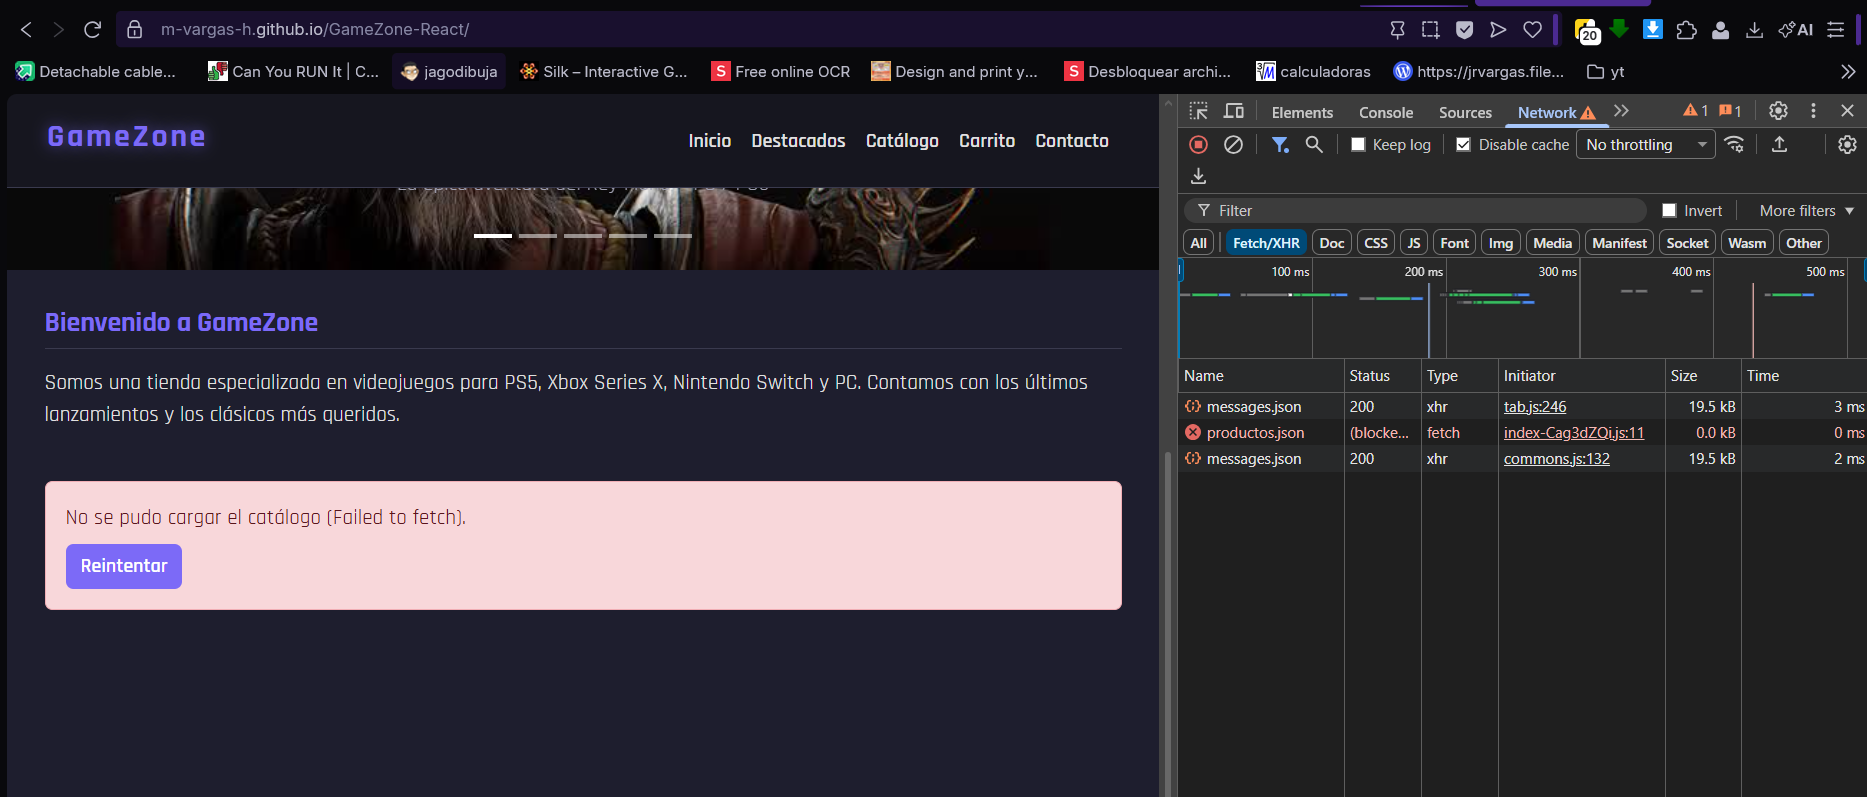
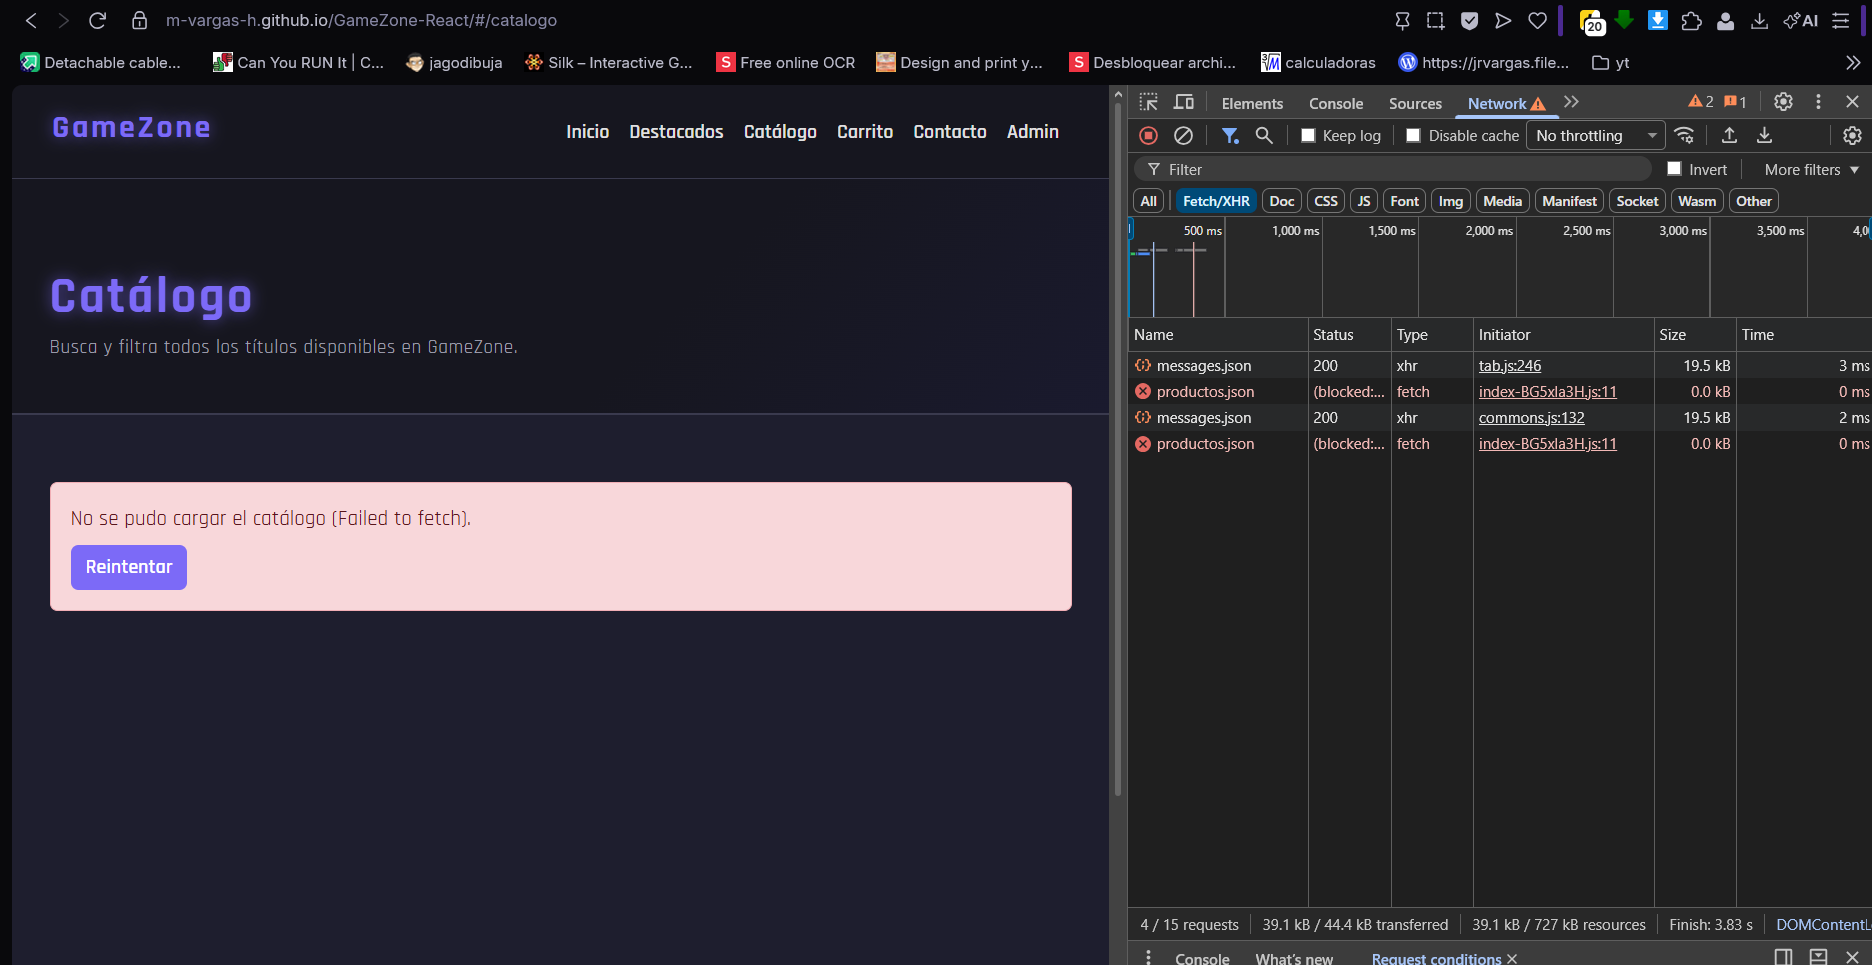
docs: actualizacion readme y evidencias

diff --git a/README.md b/README.md
@@ -1,6 +1,6 @@
 # GameZone — React
 
-Tienda de videojuegos online desarrollada con React y Vite, como migración y mejora del proyecto anterior construido en HTML/CSS/JS. Permite explorar un catálogo de juegos cargado dinámicamente, filtrarlos, buscarlos y agregarlos a un carrito de compras interactivo que se conserva al recargar la página.
+Tienda de videojuegos online desarrollada con React y Vite, como migración y mejora del proyecto anterior construido en HTML/CSS/JS. Permite explorar un catálogo de juegos cargado dinámicamente, filtrarlos, buscarlos, descubrir más títulos desde una API externa y agregarlos a un carrito de compras interactivo que se conserva al recargar la página. Incluye un formulario de contacto con validación y un modo administrador (simulado) para agregar y eliminar juegos del catálogo.
 
 ---
 
@@ -15,9 +15,77 @@ Tienda de videojuegos online desarrollada con React y Vite, como migración y me
 - **React 19** — librería principal para construcción de la UI
 - **Vite** — entorno de desarrollo y bundler
 - **Bootstrap 5** — estilos y componentes de interfaz
-- **React Router DOM** — navegación entre páginas (Home, Carrito y Contacto)
+- **React Router DOM** — navegación entre páginas (Inicio, Catálogo, Carrito, Contacto y Admin)
 - **JavaScript ES6+** — lógica de componentes y estado
+- **API GameBrain** — juegos adicionales en la sección "Descubre más juegos"
 - **gh-pages** — publicación en GitHub Pages
+
+---
+
+## Instalación local
+
+```bash
+git clone https://github.com/m-vargas-h/GameZone-React
+cd GameZone-React
+npm install
+npm run dev
+```
+
+Abre [http://localhost:5173/GameZone-React/](http://localhost:5173/GameZone-React/) en el navegador.
+
+### Configuración de la API (GameBrain)
+
+La sección "Descubre más juegos" consume la API de [GameBrain](https://gamebrain.co). La clave no se sube al repositorio.
+La Key correspondiente estara disponible en la entrega a traves de AVA para poder correr las pruebas en local de ser necesario
+
+Sin clave, la sección muestra un mensaje de error con el botón "Reintentar" y el resto del sitio funciona con normalidad.
+
+---
+
+## Uso
+
+### Páginas
+
+| Ruta | Contenido |
+|---|---|
+| `/` | Inicio: carrusel, productos destacados, botón "Ver catálogo completo" y "Descubre más juegos" (API) |
+| `/catalogo` | Búsqueda y catálogo completo con filtros por plataforma y género |
+| `/carrito` | Detalle completo del carrito |
+| `/contacto` | Formulario de contacto con validación |
+| `/admin` | Login simulado y gestión del catálogo (agregar juegos) |
+
+### Acciones
+
+| Acción | Cómo hacerlo |
+|---|---|
+| Ver el catálogo completo | Botón "Ver catálogo completo" del inicio o enlace "Catálogo" del navbar |
+| Filtrar | Botones de plataforma y género en `/catalogo` (se combinan) |
+| Buscar | Escribe en "Buscar juego" y presiona Enter o el botón Buscar |
+| Agregar al carrito | Botón "+ Carrito" en cada card; el botón muestra la cantidad (`✓ En el carrito (2)`) |
+| Ver y editar el carrito | Botón "Carrito" del navbar (panel lateral) o "Ver carrito" para la página `/carrito` |
+| Vaciar el carrito | Botón "Vaciar carrito" en el panel lateral o en la página `/carrito` |
+| Contacto | Enlace "Contacto" del navbar; el formulario valida cada campo antes de enviar |
+| Administrar el catálogo | Enlace "Admin" del navbar, con las credenciales de prueba (ver más abajo) |
+
+### Credenciales de prueba (administrador)
+
+Las credenciales se leen desde variables de entorno (`VITE_ADMIN_USER` y `VITE_ADMIN_PASS`). Los valores de demostración vienen en `.env.example`:
+
+| Usuario | Clave |
+|---|---|
+| `admin` | `gamezone123` |
+
+> El inicio de sesión es **simulado**: aunque las credenciales están en el `.env`, Vite las incluye en el build del frontend, por lo que no ofrece seguridad real. Su objetivo es mostrar renderizado condicional según el estado de sesión.
+
+### Cómo comprobar la persistencia del carrito
+
+1. Agrega uno o más juegos al carrito.
+2. Recarga la página (F5) o cierra y vuelve a abrir la pestaña.
+3. El carrito conserva los juegos y cantidades, y el badge del navbar mantiene el total.
+4. Para verificarlo en el navegador: DevTools → Application → Local Storage → clave `gamezone-carrito`.
+5. Al usar "Vaciar carrito", la clave queda con una lista vacía (`[]`).
+
+![Persistencia del carrito](public/evidencias/persistencia-carrito.gif)
 
 ---
 
@@ -36,25 +104,34 @@ Tienda de videojuegos online desarrollada con React y Vite, como migración y me
 │   │   ├── hero.png
 │   │   └── vite.svg
 │   ├── components
+│   │   ├── AdminJuegos.jsx             -> Formulario con validación para agregar juegos al catálogo
 │   │   ├── Carousel.jsx                -> Carrusel de banners con Bootstrap
 │   │   ├── CarritoPanel.jsx            -> Panel lateral del carrito
+│   │   ├── DescubreJuegos.jsx          -> Sección "Descubre más juegos" con datos de la API GameBrain
+│   │   ├── EstadoCarga.jsx             -> Spinner y alerta de error con reintento del catálogo
 │   │   ├── FeaturedProducts.jsx        -> Sección de productos destacados (destacado: true)
 │   │   ├── Footer.jsx                  -> Pie de página con datos de contacto
 │   │   ├── Navbar.jsx                  -> Navegación, acceso al carrito con badge de cantidad
-│   │   ├── ProductCard.jsx             -> Card reutilizable con botón de carrito condicional
+│   │   ├── ProductCard.jsx             -> Card reutilizable con botón de carrito condicional y botón eliminar (admin)
 │   │   ├── ProductList.jsx             -> Catálogo completo con filtros por plataforma y género
 │   │   ├── SearchBar.jsx               -> Búsqueda por nombre o categoría con renderizado condicional
-│   │   └── ShoppingCart.jsx            -> Contenido del carrito (ítems, cantidades y total)
+│   │   └── ShoppingCart.jsx            -> Contenido del carrito (ítems, cantidades, total y vaciar)
 │   ├── hooks
-│   │   └── useCarrito.js               -> Custom Hook: estado del carrito y persistencia en localStorage
+│   │   ├── useAdmin.js                 -> Custom Hook: sesión de administrador simulada (sessionStorage)
+│   │   ├── useCarrito.js               -> Custom Hook: estado del carrito y persistencia en localStorage
+│   │   ├── useJuegosExternos.js        -> Custom Hook: carga de juegos desde la API GameBrain
+│   │   └── useProductos.js             -> Custom Hook: carga del catálogo, agregar y eliminar juegos
 │   ├── pages
+│   │   ├── Admin.jsx                   -> Página /admin: login simulado y gestión del catálogo
 │   │   ├── CarritoPagina.jsx           -> Página /carrito con el detalle completo
+│   │   ├── Catalogo.jsx                -> Página /catalogo: búsqueda y catálogo completo con filtros
 │   │   └── Contacto.jsx                -> Página de contacto con validación de formulario
 │   ├── utils
 │   │   └── formato.js                  -> Formateo de precios
-│   ├── App.jsx                         -> Componente raíz: carga del catálogo, rutas y panel del carrito
+│   ├── App.jsx                         -> Componente raíz: conecta los hooks, define las rutas y monta el panel del carrito
 │   ├── main.jsx                        -> Punto de entrada, configuración de Bootstrap y Router
 │   └── styles.css                      -> Estilos personalizados con variables CSS
+├── .env.example                        -> Plantilla de variables de entorno (clave de la API)
 ├── .gitattributes
 ├── .gitignore
 ├── README.md
@@ -69,39 +146,47 @@ Tienda de videojuegos online desarrollada con React y Vite, como migración y me
 
 ## Funcionalidades implementadas
 
-### 1. Catálogo de productos
+### 1. Inicio y productos destacados
 
-Listado de 15 juegos cargado dinámicamente con `fetch` dentro de un `useEffect` en `App`, desde `public/data/productos.json`, y renderizado con `.map()`. Cada card muestra nombre, descripción, imagen, precio normal tachado y precio oferta destacado. El componente `ProductCard` se reutiliza en el catálogo, destacados y resultados de búsqueda.
+La página principal muestra el carrusel y los 5 juegos marcados como `destacado: true` en el catálogo, con un botón **Ver catálogo completo** que lleva a `/catalogo`. Debajo se ubica la sección "Descubre más juegos", alimentada por la API externa.
+
+![Inicio y destacados](public/evidencias/inicio-destacados.gif)
+
+---
+
+### 2. Catálogo completo, filtros y búsqueda
+
+La página `/catalogo` lista los 15 juegos cargados dinámicamente con `fetch` dentro de un `useEffect` en el custom Hook `useProductos`, desde `public/data/productos.json`, y renderizados con `.map()`. Cada card muestra nombre, descripción, imagen, precio normal tachado y precio oferta destacado. El componente `ProductCard` se reutiliza en destacados, catálogo y resultados de búsqueda.
 
 ![Catálogo de productos](public/evidencias/catalogo.gif)
 
----
-
-### 2. Carrito de compras
-
-El carrito se abre como un **panel lateral** desde el botón "Carrito" del navbar, disponible en todas las páginas. Permite modificar la cantidad con `+` y `−`, eliminar ítems y ver el total, calculado con `.reduce()` sobre el precio oferta por cantidad. El navbar muestra un badge con el total de unidades.
-
-Desde el panel, el botón **Ver carrito** lleva a la página `/carrito`, con el mismo contenido en formato de página completa.
-
-El estado y las operaciones del carrito viven en el custom Hook `useCarrito`, que además guarda el contenido en `localStorage` con un `useEffect`, por lo que el carrito se conserva al recargar la página.
-
-![Carrito de compras](public/evidencias/carrito.gif)
-
----
-
-### 3. Filtros por plataforma y género
-
-El catálogo se filtra en tiempo real usando `useState`. Los botones pill muestran el filtro activo con la clase `active`. Si ningún juego coincide con el filtro seleccionado, se muestra un mensaje informativo (renderizado condicional).
+**Filtros.** El catálogo se filtra en tiempo real por plataforma y género (combinables) usando `useState`. Los botones pill muestran el filtro activo con la clase `active`. Si ningún juego coincide, se muestra un mensaje informativo (renderizado condicional).
 
 ![Filtros](public/evidencias/filtros.gif)
 
----
-
-### 4. Búsqueda de juegos
-
-Busca por nombre o categoría sobre el catálogo cargado. Muestra resultados dinámicamente y mensajes de estado cuando no hay coincidencias o el campo está vacío (renderizado condicional con `useState`).
+**Búsqueda.** Busca por nombre o categoría sobre el catálogo cargado. Muestra resultados dinámicamente y mensajes de estado cuando no hay coincidencias o el campo está vacío.
 
 ![Búsqueda](public/evidencias/busqueda.gif)
+
+---
+
+### 3. Descubre más juegos (API externa)
+
+La sección consume la API de GameBrain mediante el custom Hook `useJuegosExternos`: `fetch` dentro de un `useEffect`, con `AbortController`, estados de carga y error, y botón **Reintentar**. Como los campos de la API pueden variar, el hook los normaliza (nombre, imagen, género, plataforma, rating y enlace) antes de entregarlos al componente `DescubreJuegos`, que renderiza una card por juego. La clave de la API se lee desde `import.meta.env.VITE_GAMEBRAIN_KEY` (ver [Configuración de la API](#configuración-de-la-api-gamebrain)).
+
+![Descubre más juegos](public/evidencias/descubre-api.gif)
+
+---
+
+### 4. Carrito de compras
+
+El carrito se abre como un **panel lateral** desde el botón "Carrito" del navbar, disponible en todas las páginas. Permite modificar la cantidad con `+` y `−`, eliminar ítems, **vaciar el carrito completo** y ver el total, calculado con `.reduce()` sobre el precio oferta por cantidad. El navbar muestra un badge con el total de unidades.
+
+Desde el panel, el botón **Ver carrito** lleva a la página `/carrito`, con el mismo contenido en formato de página completa (incluido el botón "Vaciar carrito").
+
+El estado y las operaciones del carrito (`agregarAlCarrito`, `modificarCantidad`, `eliminarDelCarrito`, `vaciarCarrito`) viven en el custom Hook `useCarrito`, que además guarda el contenido en `localStorage` con un `useEffect`, por lo que el carrito se conserva al recargar la página.
+
+![Carrito de compras](public/evidencias/carrito.gif)
 
 ---
 
@@ -113,18 +198,34 @@ Página independiente accesible desde el navbar (`/contacto`). El formulario usa
 
 ---
 
-### 6. Hooks y renderizado condicional
+### 6. Administración del catálogo (agregar y eliminar juegos)
 
-**Datos dinámicos con `useState` y `useEffect`.** `App` mantiene los estados `productos`, `cargando` y `error`. Un `useEffect` carga el catálogo con `fetch` al montar la aplicación y en cada reintento, con `AbortController` para limpiar la petición.
+La página `/admin` muestra un **inicio de sesión simulado** (hook `useAdmin`, sesión en `sessionStorage`, válida mientras dure la pestaña). Según el estado de sesión se renderiza de forma condicional:
+
+- **Sin sesión:** solo el formulario de login, con mensajes de error si los campos están vacíos o las credenciales son incorrectas. En el catálogo no aparece ningún botón de eliminar.
+- **Con sesión:** el formulario `AdminJuegos` para **agregar** un juego (nombre, precio, género, plataforma, imagen opcional y descripción, todo con validación), un botón para cerrar sesión, y el botón **Eliminar juego** en cada card del catálogo.
+
+Las operaciones modifican el estado `productos` del hook `useProductos` (`agregarProducto` y `eliminarProducto`), que se pasa por props hasta los componentes. Al eliminar un juego que estaba en el carrito, también se quita del carrito. Los cambios del catálogo viven en el estado de React, por lo que se reinician al recargar la página.
+
+![Login de administrador](public/evidencias/admin-login.gif)
+![Agregar juego](public/evidencias/admin-agregar.gif)
+![Eliminar juego](public/evidencias/admin-eliminar.gif)
+
+---
+
+### 7. Hooks y renderizado condicional
+
+**Datos dinámicos con `useState` y `useEffect`.** El hook `useProductos` mantiene los estados `productos`, `cargando` y `error`. Un `useEffect` carga el catálogo con `fetch` al montar la aplicación y en cada reintento, con `AbortController` para limpiar la petición.
 
 ![Datos dinámicos](public/evidencias/datos-dinamicos.png)
 
 **Renderizado condicional.**
 
-- Spinner "Cargando catálogo..." mientras se obtienen los datos.
-- Alerta con botón **Reintentar** si la carga falla.
-- Botón de cada card: "+ Carrito" cambia a "✓ En el carrito" si el juego ya fue agregado.
-- Mensaje "Tu carrito está vacío" y botón **Ver carrito** visible solo cuando hay productos.
+- Spinner "Cargando catálogo..." mientras se obtienen los datos, y alerta con botón **Reintentar** si la carga falla (componente `EstadoCarga`).
+- Estados equivalentes (carga, error con reintento, sin resultados) en "Descubre más juegos".
+- Botón de cada card: "+ Carrito" cambia a "✓ En el carrito (n)" con la cantidad actual si el juego ya fue agregado.
+- Mensaje "Tu carrito está vacío"; el botón **Ver carrito** y el botón **Vaciar carrito** aparecen solo cuando hay productos.
+- Formulario de login o gestión del catálogo según la sesión de administrador, y botón "Eliminar juego" visible solo con sesión iniciada.
 
 ![Botón condicional en las cards](public/evidencias/renderizado-condicional.png)
 ![Carrito vacío](public/evidencias/carrito-vacio.png)
@@ -132,9 +233,12 @@ Página independiente accesible desde el navbar (`/contacto`). El formulario usa
 
 | Hook | Uso |
 |---|---|
-| `useState` | Catálogo, estados de carga y error, carrito, filtros, búsqueda y campos del formulario |
-| `useEffect` | Carga del catálogo con `fetch`, persistencia del carrito en `localStorage`, control del carrusel |
-| `useCarrito` (custom) | Encapsula el estado del carrito, sus operaciones y su persistencia |
+| `useState` | Catálogo, estados de carga y error, carrito, sesión admin, filtros, búsqueda y campos de los formularios |
+| `useEffect` | Carga del catálogo y de la API con `fetch`, persistencia del carrito en `localStorage`, control del carrusel |
+| `useProductos` (custom) | Encapsula la carga del catálogo (carga, error, reintento) y las operaciones de agregar y eliminar juegos |
+| `useJuegosExternos` (custom) | Encapsula la carga de juegos desde la API GameBrain, con normalización de datos y reintento |
+| `useCarrito` (custom) | Encapsula el estado del carrito, sus operaciones (incluido vaciar) y su persistencia |
+| `useAdmin` (custom) | Encapsula la sesión de administrador simulada |
 
 ---
 
@@ -142,27 +246,37 @@ Página independiente accesible desde el navbar (`/contacto`). El formulario usa
 
 | Componente | Descripción |
 |---|---|
-| `App` | Carga el catálogo (`useEffect` + `fetch`), define las rutas y monta el panel del carrito |
-| `ProductCard` | Card de producto reutilizada en catálogo, destacados y búsqueda; su botón cambia según el carrito |
+| `App` | Conecta los custom Hooks, define las rutas y monta el panel del carrito |
+| `ProductCard` | Card de producto reutilizada en destacados, catálogo y búsqueda; su botón cambia según el carrito y muestra "Eliminar juego" solo si recibe la función (sesión admin) |
 | `ProductList` | Catálogo con filtros internos via `useState` |
 | `FeaturedProducts` | Filtra productos con `destacado: true` |
 | `SearchBar` | Búsqueda con estado propio y resultados condicionales |
+| `EstadoCarga` | Spinner y alerta de error con reintento, reutilizado en Inicio y Catálogo |
+| `DescubreJuegos` | Sección con juegos de la API externa y sus estados de carga y error |
 | `ShoppingCart` | Contenido del carrito, reutilizado en el panel lateral y en la página `/carrito` |
 | `CarritoPanel` | Panel lateral (Offcanvas) con el carrito y acceso a la página `/carrito` |
+| `AdminJuegos` | Formulario controlado con validación para agregar juegos |
 | `Navbar` | Navegación y botón del carrito con badge de cantidad |
+
+Páginas: `Catalogo`, `CarritoPagina`, `Contacto` y `Admin`.
 
 ---
 
-## Instalación local
+## Compatibilidad y diseño responsivo
 
-```bash
-git clone https://github.com/m-vargas-h/GameZone-React
-cd GameZone-React
-npm install
-npm run dev
-```
+El sitio usa el sistema de grid de Bootstrap (`col-12 col-md-6 col-lg-4`), un navbar colapsable y Flexbox en el CSS personalizado. Se probó en:
 
-Abre [http://localhost:5173/GameZone-React/](http://localhost:5173/GameZone-React/) en el navegador.
+| Entorno | Resultado |
+|---|---|
+| Escritorio (Opera) | Correcto |
+| Escritorio (Brave) | Correcto |
+| Tablet (vista responsiva) | Correcto |
+| Móvil (vista responsiva) | Correcto |
+
+![Opera](public/evidencias/navegador-opera.png)
+![Brave](public/evidencias/navegador-brave.png)
+![Vista de tablet](public/evidencias/responsive-tablet.png)
+![Vista móvil](public/evidencias/responsive-movil.png)
 
 ---
 
@@ -172,22 +286,30 @@ Abre [http://localhost:5173/GameZone-React/](http://localhost:5173/GameZone-Reac
 npm run deploy
 ```
 
-Esto genera el build en `/dist` y lo publica automáticamente en la rama `gh-pages`. La configuración para React incluye `base: '/GameZone-React/'` en `vite.config.js` y `HashRouter`, para que las rutas funcionen al recargar en GitHub Pages.
+Esto genera el build en `/dist` y lo publica automáticamente en la rama `gh-pages`. La configuración para React incluye `base: '/GameZone-React/'` en `vite.config.js` y `HashRouter`, para que las rutas funcionen al recargar en GitHub Pages. El build lee la clave de la API desde el `.env` local.
 
 ---
 
 ## Decisiones de diseño
 
+### Lógica separada en custom Hooks
+
+La lógica de estado se separó de los componentes en cuatro hooks (`useProductos`, `useJuegosExternos`, `useCarrito`, `useAdmin`). `App` solo conecta los de catálogo, carrito y sesión, y coordina las operaciones que cruzan dominios (por ejemplo, eliminar un juego también lo quita del carrito). `DescubreJuegos` usa su propio hook, por lo que la API solo se consulta al visitar el inicio.
+
+### Catálogo en página aparte
+
+El inicio muestra solo los 5 destacados y un acceso al catálogo completo (`/catalogo`), que concentra búsqueda y filtros. Así la portada es más liviana y cada página tiene una responsabilidad clara.
+
 ### Rutas de imágenes independientes del despliegue
 
-Las imágenes se referencian de forma relativa (`img/...`) en los datos y el carrusel, y se resuelven con `import.meta.env.BASE_URL` al renderizar. Así, un cambio en la ruta de despliegue solo requiere modificar `base` en `vite.config.js`.
+Las imágenes se referencian de forma relativa (`img/...`) en los datos y el carrusel, y se resuelven con `import.meta.env.BASE_URL` al renderizar. Así, un cambio en la ruta de despliegue solo requiere modificar `base` en `vite.config.js`. Los juegos agregados desde el formulario admin pueden usar una URL completa (`http...`), que se usa tal cual.
 
-### API externa GameBrain
+### Clave de la API fuera del repositorio
 
-La versión anterior del proyecto integraba la API externa **GameBrain** para cargar juegos en tiempo real. En esta migración se excluyó por la inestabilidad que presentaba en producción. La carga del catálogo ya sigue el patrón `useEffect` + estados de carga, error y reintento, por lo que incorporar una API externa es el siguiente paso previsto para la entrega final.
+La clave de GameBrain se guarda en un `.env` (ignorado por Git) y se expone solo mediante `import.meta.env`. El repositorio incluye `.env.example` como plantilla. Al ser un sitio estático, la clave queda incluida en el build publicado, por lo que se usa una clave dedicada a este proyecto.
+
+### Login simulado y catálogo en memoria
+
+Al no existir un backend, la sesión de administrador es una simulación: las credenciales se leen desde variables de entorno y se validan en el frontend. Los juegos agregados o eliminados se mantienen solo en el estado de React (se reinician al recargar). Es suficiente para demostrar state, props y renderizado condicional.
 
 ---
-
-## Próximos pasos
-
-- Integrar una API externa para ampliar el catálogo, aprovechando la estructura de carga, error y reintento existente.
